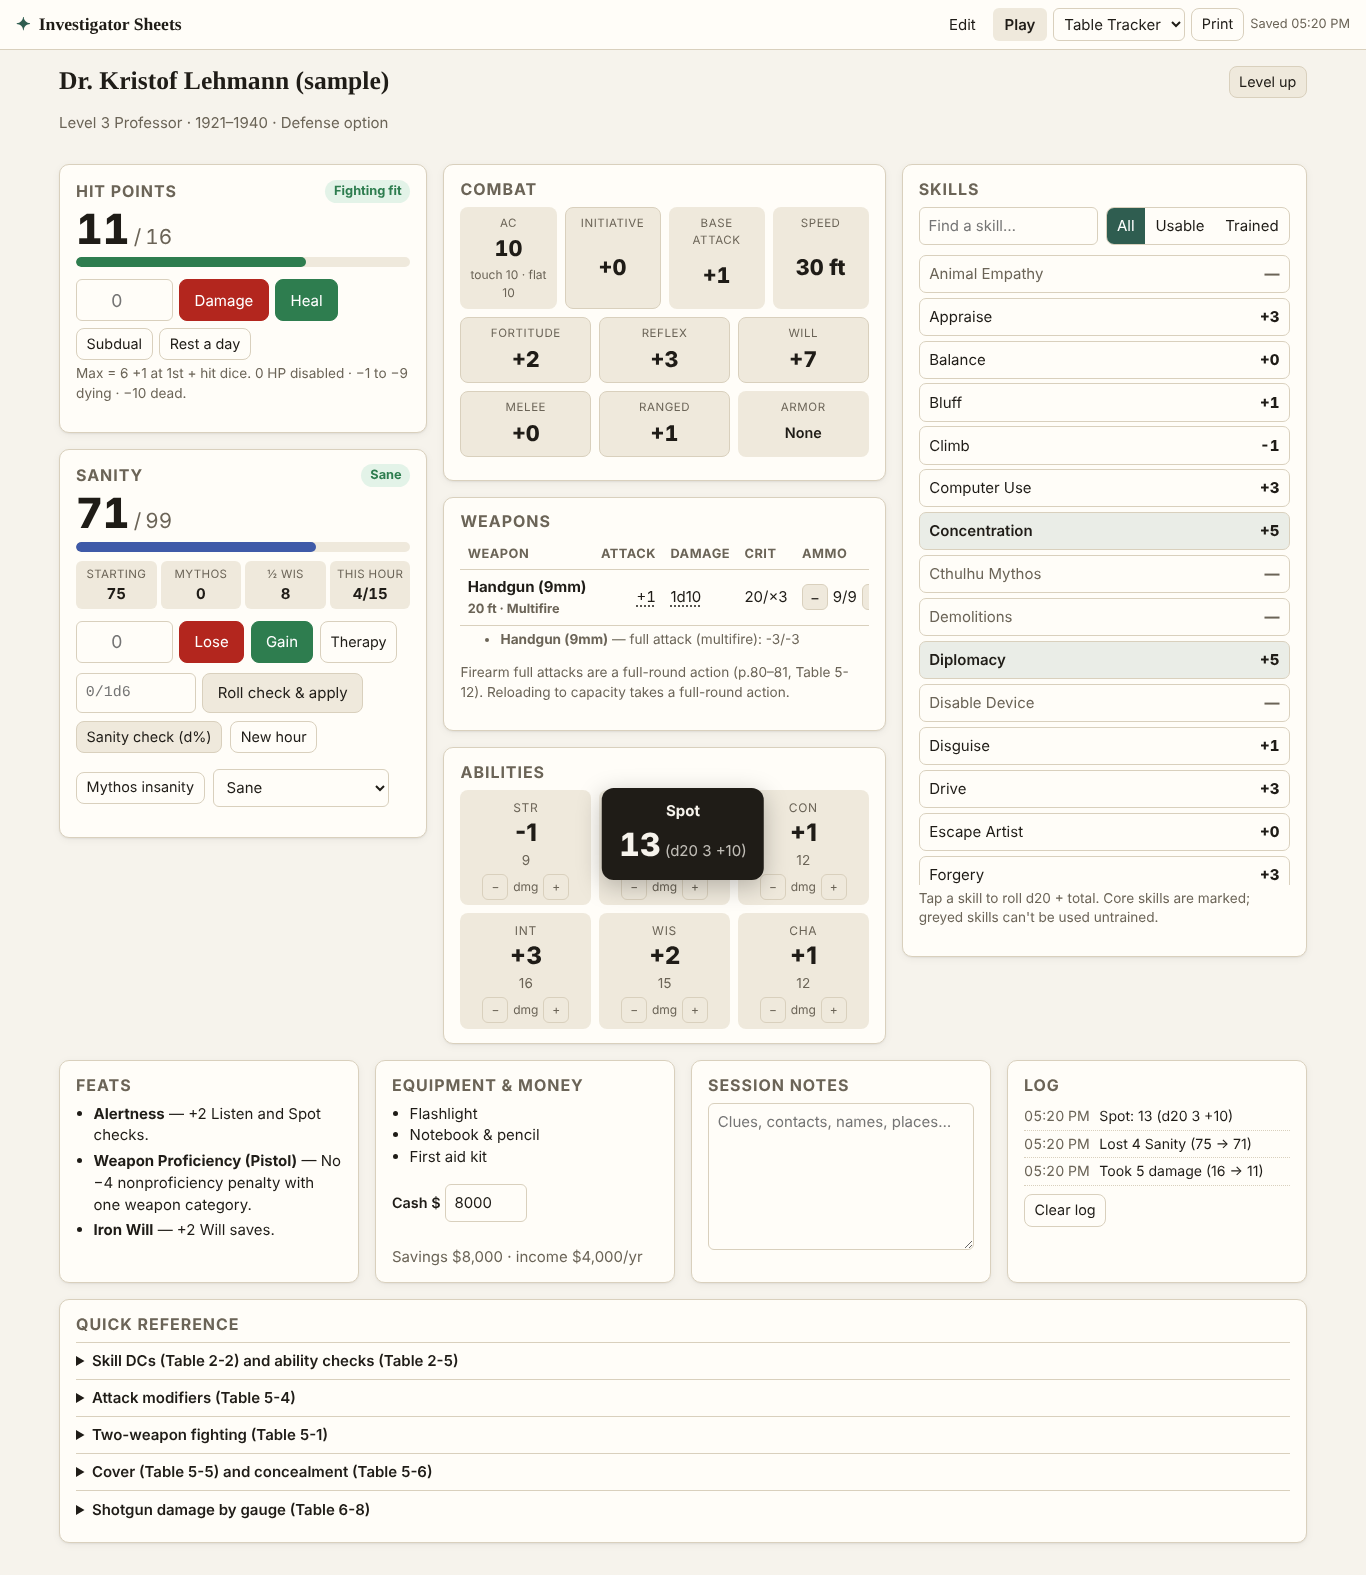
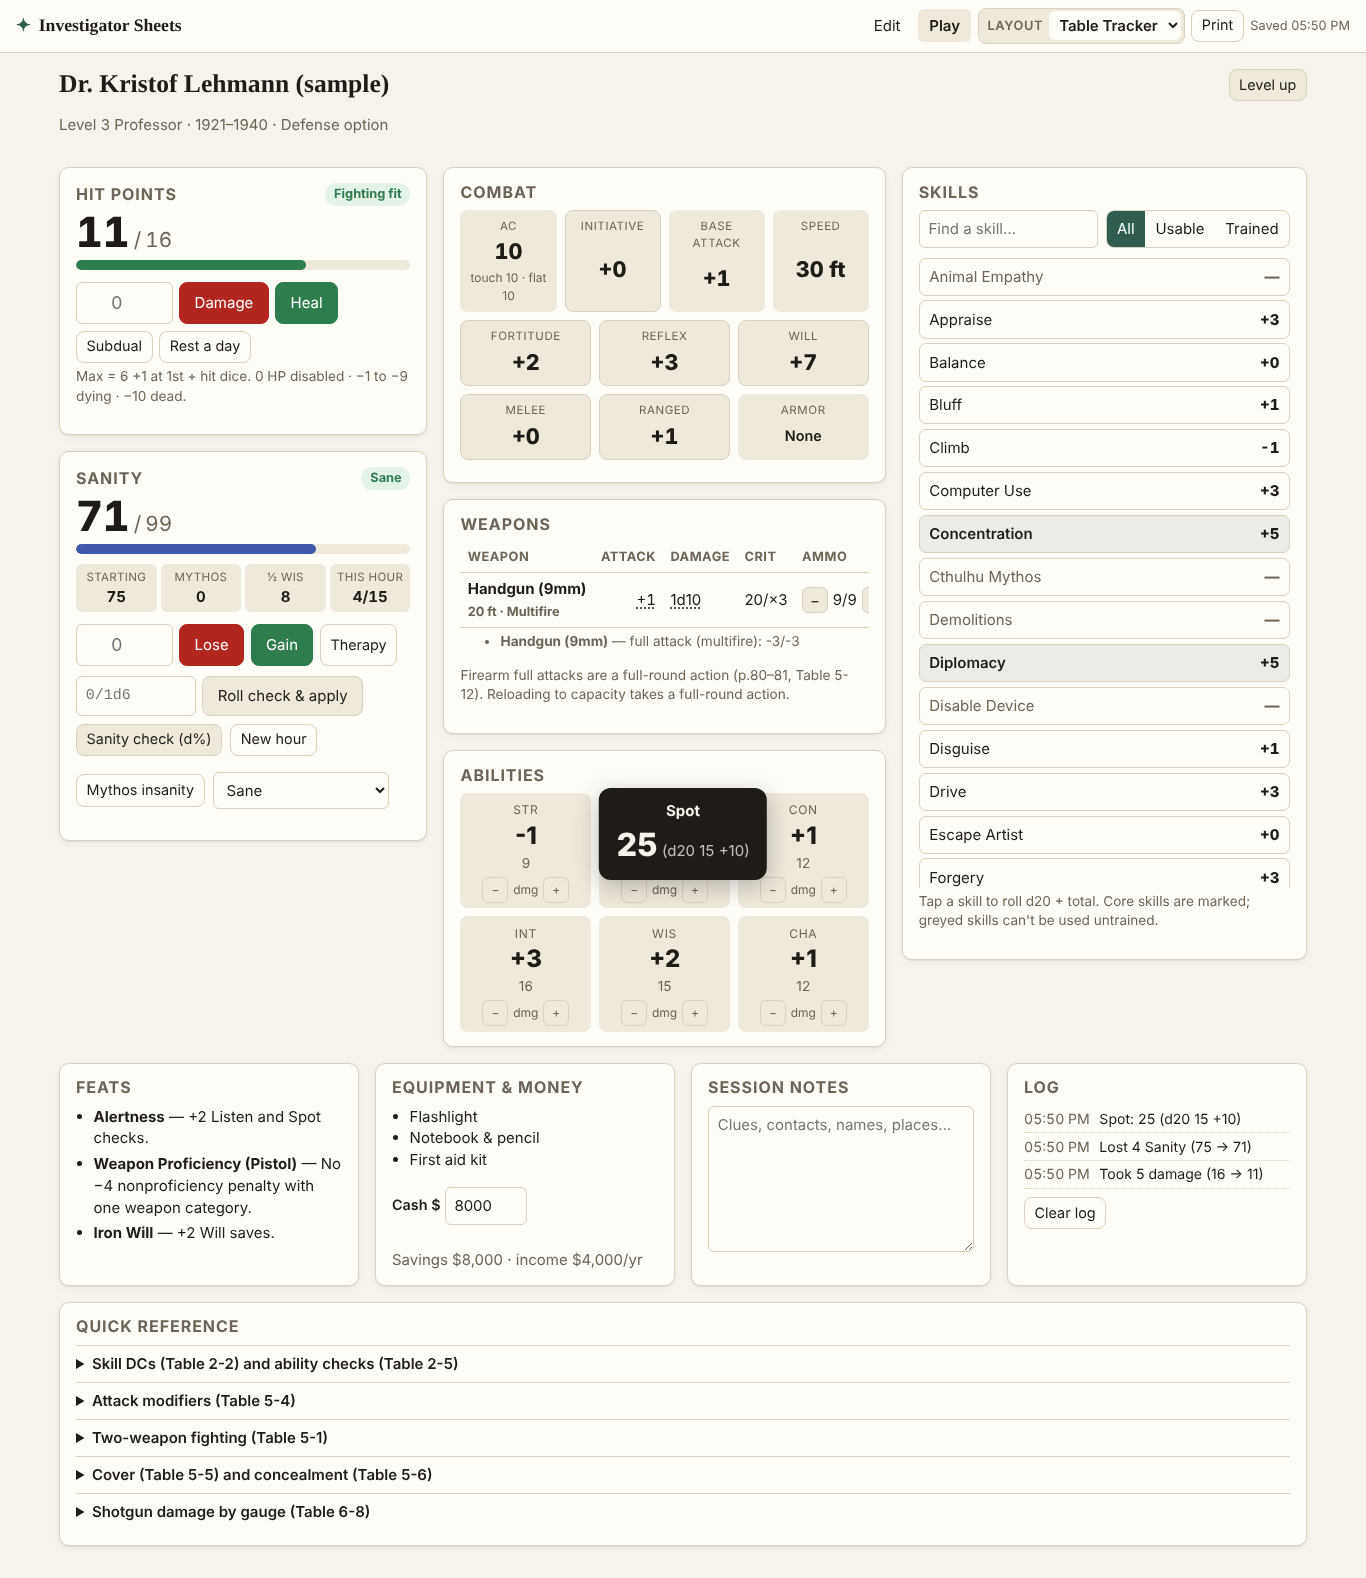
Add a Layout menu to the top bar on every page
The layout preference (Table Tracker, Classic Sheet, Pocket) can now be
chosen from a labelled Layout menu at the top of the character list, the
editor and the play screen, not only while playing. The choice is saved
in a cookie and localStorage and every character opens in it.

Claude-Session: https://claude.ai/code/session_01RhYKi65zqZFbYt3AciwoZE

diff --git a/v2/js/app.js b/v2/js/app.js
@@ -159,14 +159,17 @@
 
   function renderNav() {
     const r = state.route;
-    if (r.view === "list") { $nav.innerHTML = ""; return; }
     const id = state.ch && state.ch.id;
-    const designs = D.list.map((d) => `<option value="${d.key}" ${d.key === state.design ? "selected" : ""}>${esc(d.name)}</option>`).join("");
-    $nav.innerHTML = `
+    // The layout menu is on every page; the choice is saved (cookie + localStorage)
+    // and used whenever a character is played.
+    const layouts = D.list.map((d) => `<option value="${d.key}" ${d.key === state.design ? "selected" : ""} title="${esc(d.blurb)}">${esc(d.name)}</option>`).join("");
+    const layoutMenu = `<label class="layout-menu" title="Choose how the play screen is laid out"><span class="layout-lbl">Layout</span><select data-action="design" aria-label="Layout preference">${layouts}</select></label>`;
+    const charLinks = r.view === "list" || !id ? "" : `
       <a class="navlink ${r.view === "edit" ? "active" : ""}" href="#/edit/${id}/${r.step || "basics"}">Edit</a>
-      <a class="navlink ${r.view === "play" ? "active" : ""}" href="#/play/${id}">Play</a>
-      ${r.view === "play" ? `<label class="design-pick"><span class="sr-only">Sheet design</span><select data-action="design" aria-label="Sheet design">${designs}</select></label>
-      <button class="btn small ghost" data-action="print" title="Print this sheet">Print</button>` : ""}
+      <a class="navlink ${r.view === "play" ? "active" : ""}" href="#/play/${id}">Play</a>`;
+    $nav.innerHTML = `${charLinks}
+      ${layoutMenu}
+      ${r.view === "play" ? `<button class="btn small ghost" data-action="print" title="Print this sheet (always uses the Classic Sheet layout)">Print</button>` : ""}
       <span class="save-state" id="saveState" aria-live="polite"></span>`;
   }
 
@@ -540,7 +543,13 @@
     if (!a) return;
     const i = el.dataset.i !== undefined ? +el.dataset.i : null;
     switch (a) {
-      case "design": state.design = el.value; S.setPref("design", el.value); render(); break;
+      case "design": {
+        state.design = el.value;
+        S.setPref("design", el.value);
+        render();
+        if (state.route.view !== "play") toast(`Layout set to <strong>${esc((D.list.find((d) => d.key === el.value) || {}).name || el.value)}</strong>. Characters open in this layout when you press Play.`);
+        break;
+      }
       case "profession": update((c) => { c.profession = el.value; c.coreSkills = C.templateCore(el.value); }); break;
       case "attack-option": update((c) => { c.attackOption = el.value; const need = C.goodSaveCount(el.value); c.goodSaves = c.goodSaves.slice(0, need); }); break;
       case "good-save": update((c) => {

diff --git a/v2/css/app.css b/v2/css/app.css
@@ -95,7 +95,9 @@ thead th { font-size: .8rem; text-transform: uppercase; letter-spacing: .04em; c
 .topnav { display: flex; align-items: center; gap: .4rem; flex-wrap: wrap; }
 .navlink { padding: .35rem .7rem; border-radius: 6px; text-decoration: none; color: var(--ink); }
 .navlink.active { background: var(--surface-2); font-weight: 600; }
-.design-pick select { padding: .3rem .4rem; }
+.layout-menu { display: inline-flex; align-items: center; gap: .35rem; padding: .15rem .2rem .15rem .55rem; border: 1px solid var(--line); border-radius: 8px; background: var(--surface-2); }
+.layout-lbl { font-size: .8rem; font-weight: 600; text-transform: uppercase; letter-spacing: .05em; color: var(--muted); }
+.layout-menu select { padding: .25rem .4rem; border: 0; background: var(--surface); font-weight: 600; }
 .save-state { color: var(--muted); font-size: .8rem; min-width: 5em; }
 main { max-width: 1280px; margin: 0 auto; padding: 1rem; outline: none; }
 
@@ -306,6 +308,8 @@ input.spec { width: 9em; padding: .2rem .4rem; }
   .topbar { position: static; flex-wrap: nowrap; }
   .topnav { flex-wrap: nowrap; gap: .25rem; }
   .navlink { padding: .3rem .45rem; }
+  .layout-menu { padding-left: .35rem; }
+  .layout-lbl { font-size: .7rem; }
   .save-state { display: none; }
   .pocket-top { top: 0; }
   h1 { font-size: 1.35rem; }

diff --git a/v2/DESIGNS.md b/v2/DESIGNS.md
@@ -23,7 +23,7 @@ Open `v2/index.html` in a browser; there is no build step. Run the rules tests w
 
 ## The three play designs
 
-All three draw from the same calculated sheet (`CoC.derive`), so every number is identical whichever you choose. Switch with the design picker in the top bar; the choice is remembered. **Print always produces the Classic Sheet layout.**
+All three draw from the same calculated sheet (`CoC.derive`), so every number is identical whichever you choose. Choose one with the **Layout** menu at the top of every page: the character list, the editor and the play screen. The choice is saved as your layout preference (cookie `cocd20_design`, plus `localStorage`), and every character opens in that layout when you press Play. You can switch layouts in the middle of a session without losing anything. **Print always produces the Classic Sheet layout.**
 
 ### 1. Table Tracker: laptop or tablet at the table
 ![Table Tracker](docs/screens/design-1-tracker.png)
